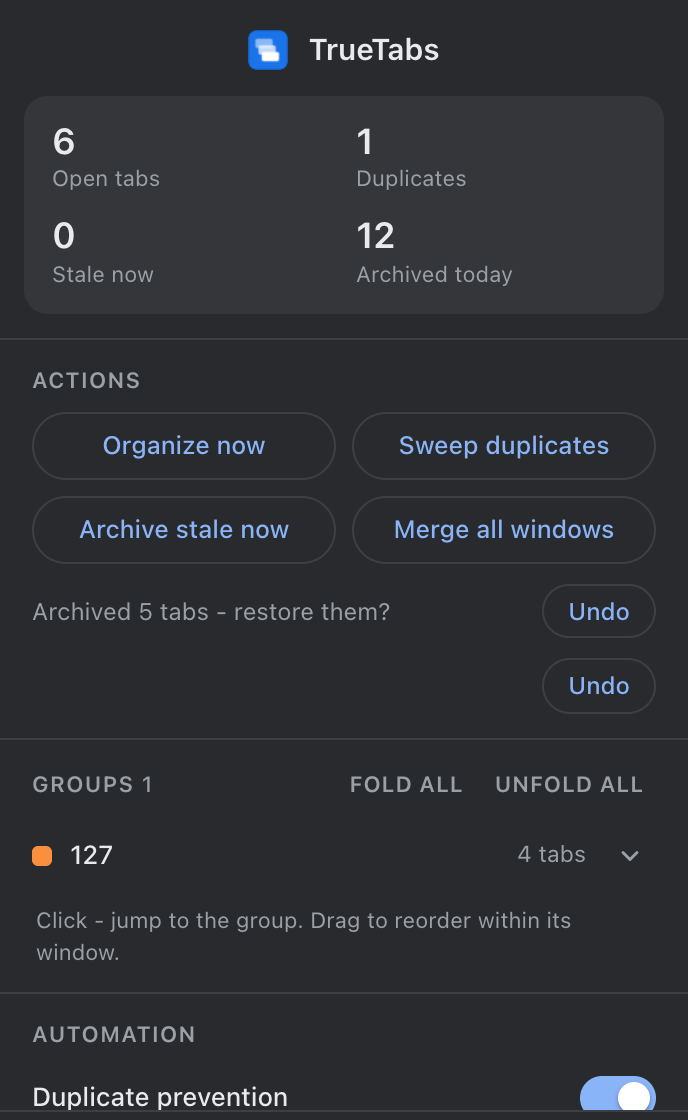
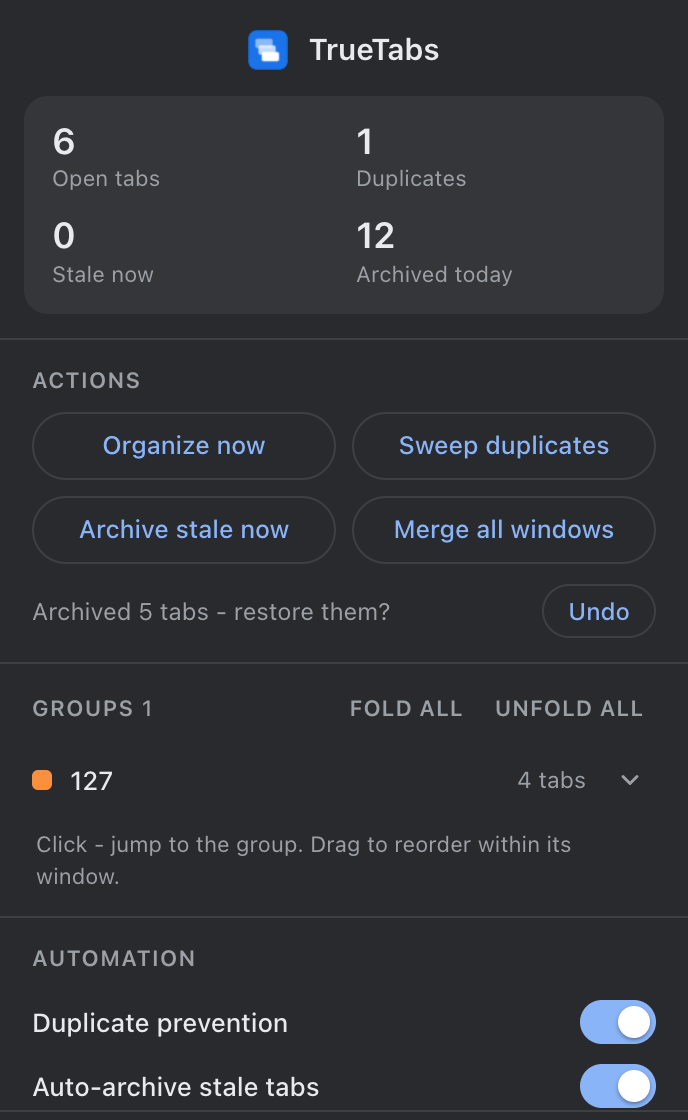
fix: [hidden] must beat flex display (phantom undo row); shots popup debug flag

diff --git a/extension/theme.css b/extension/theme.css
@@ -71,6 +71,10 @@
 * {
   box-sizing: border-box;
 }
+/* The hidden attribute must beat any display: flex/grid a class sets. */
+[hidden] {
+  display: none !important;
+}
 body {
   margin: 0;
   font-size: 13px;